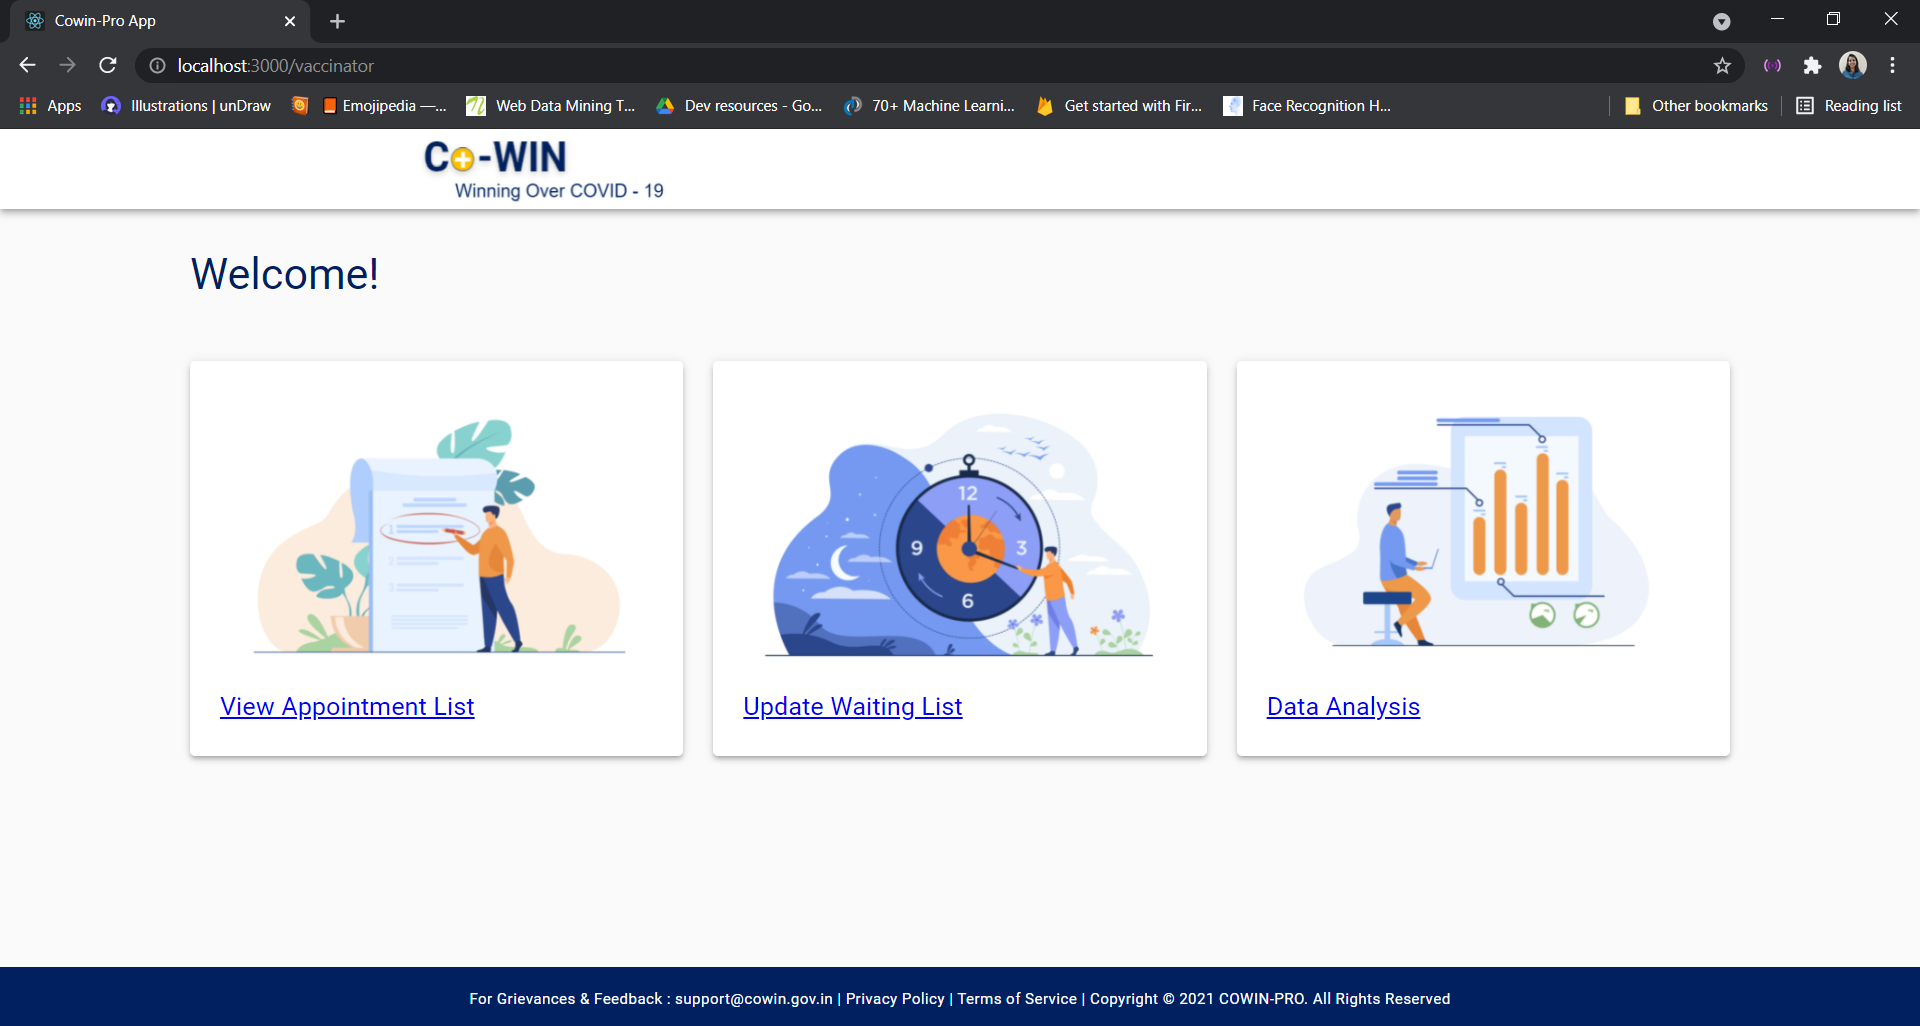
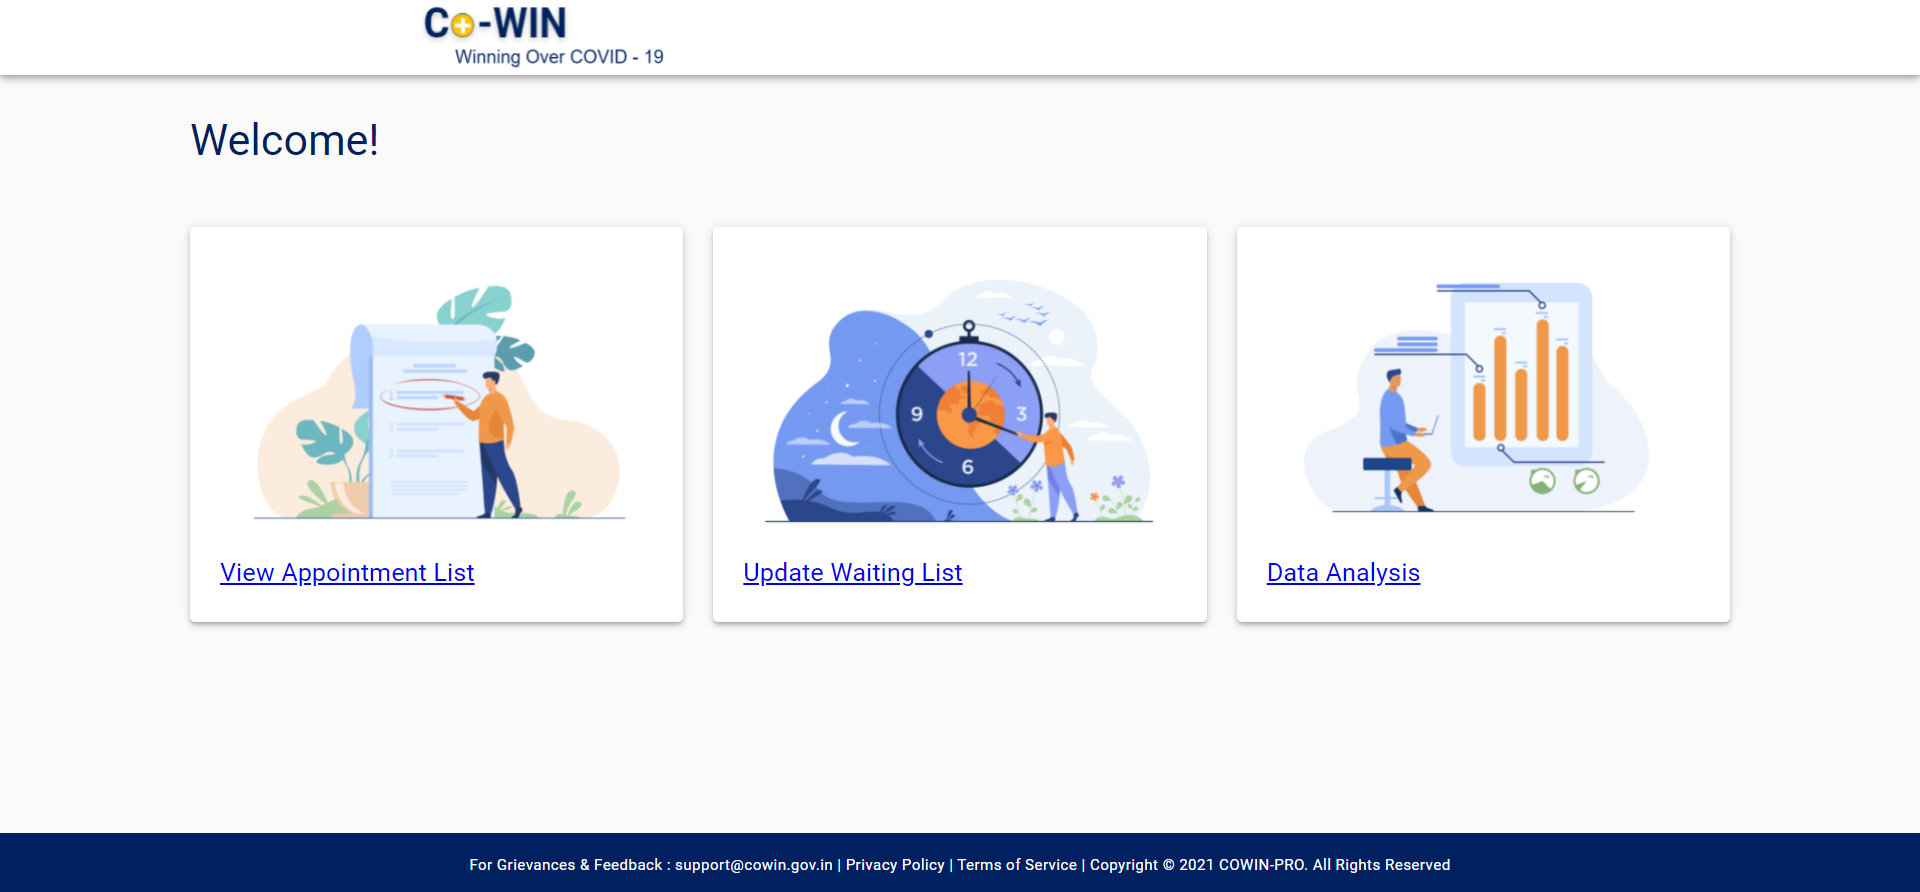
photo changes

diff --git a/index.css b/index.css
@@ -261,7 +261,7 @@ body{
 	width: 100%;
 }
 .pritem{
-	height: 330px;
+	height: fit-content;
 	margin-top: 35px;
 }
 .pritem img{
